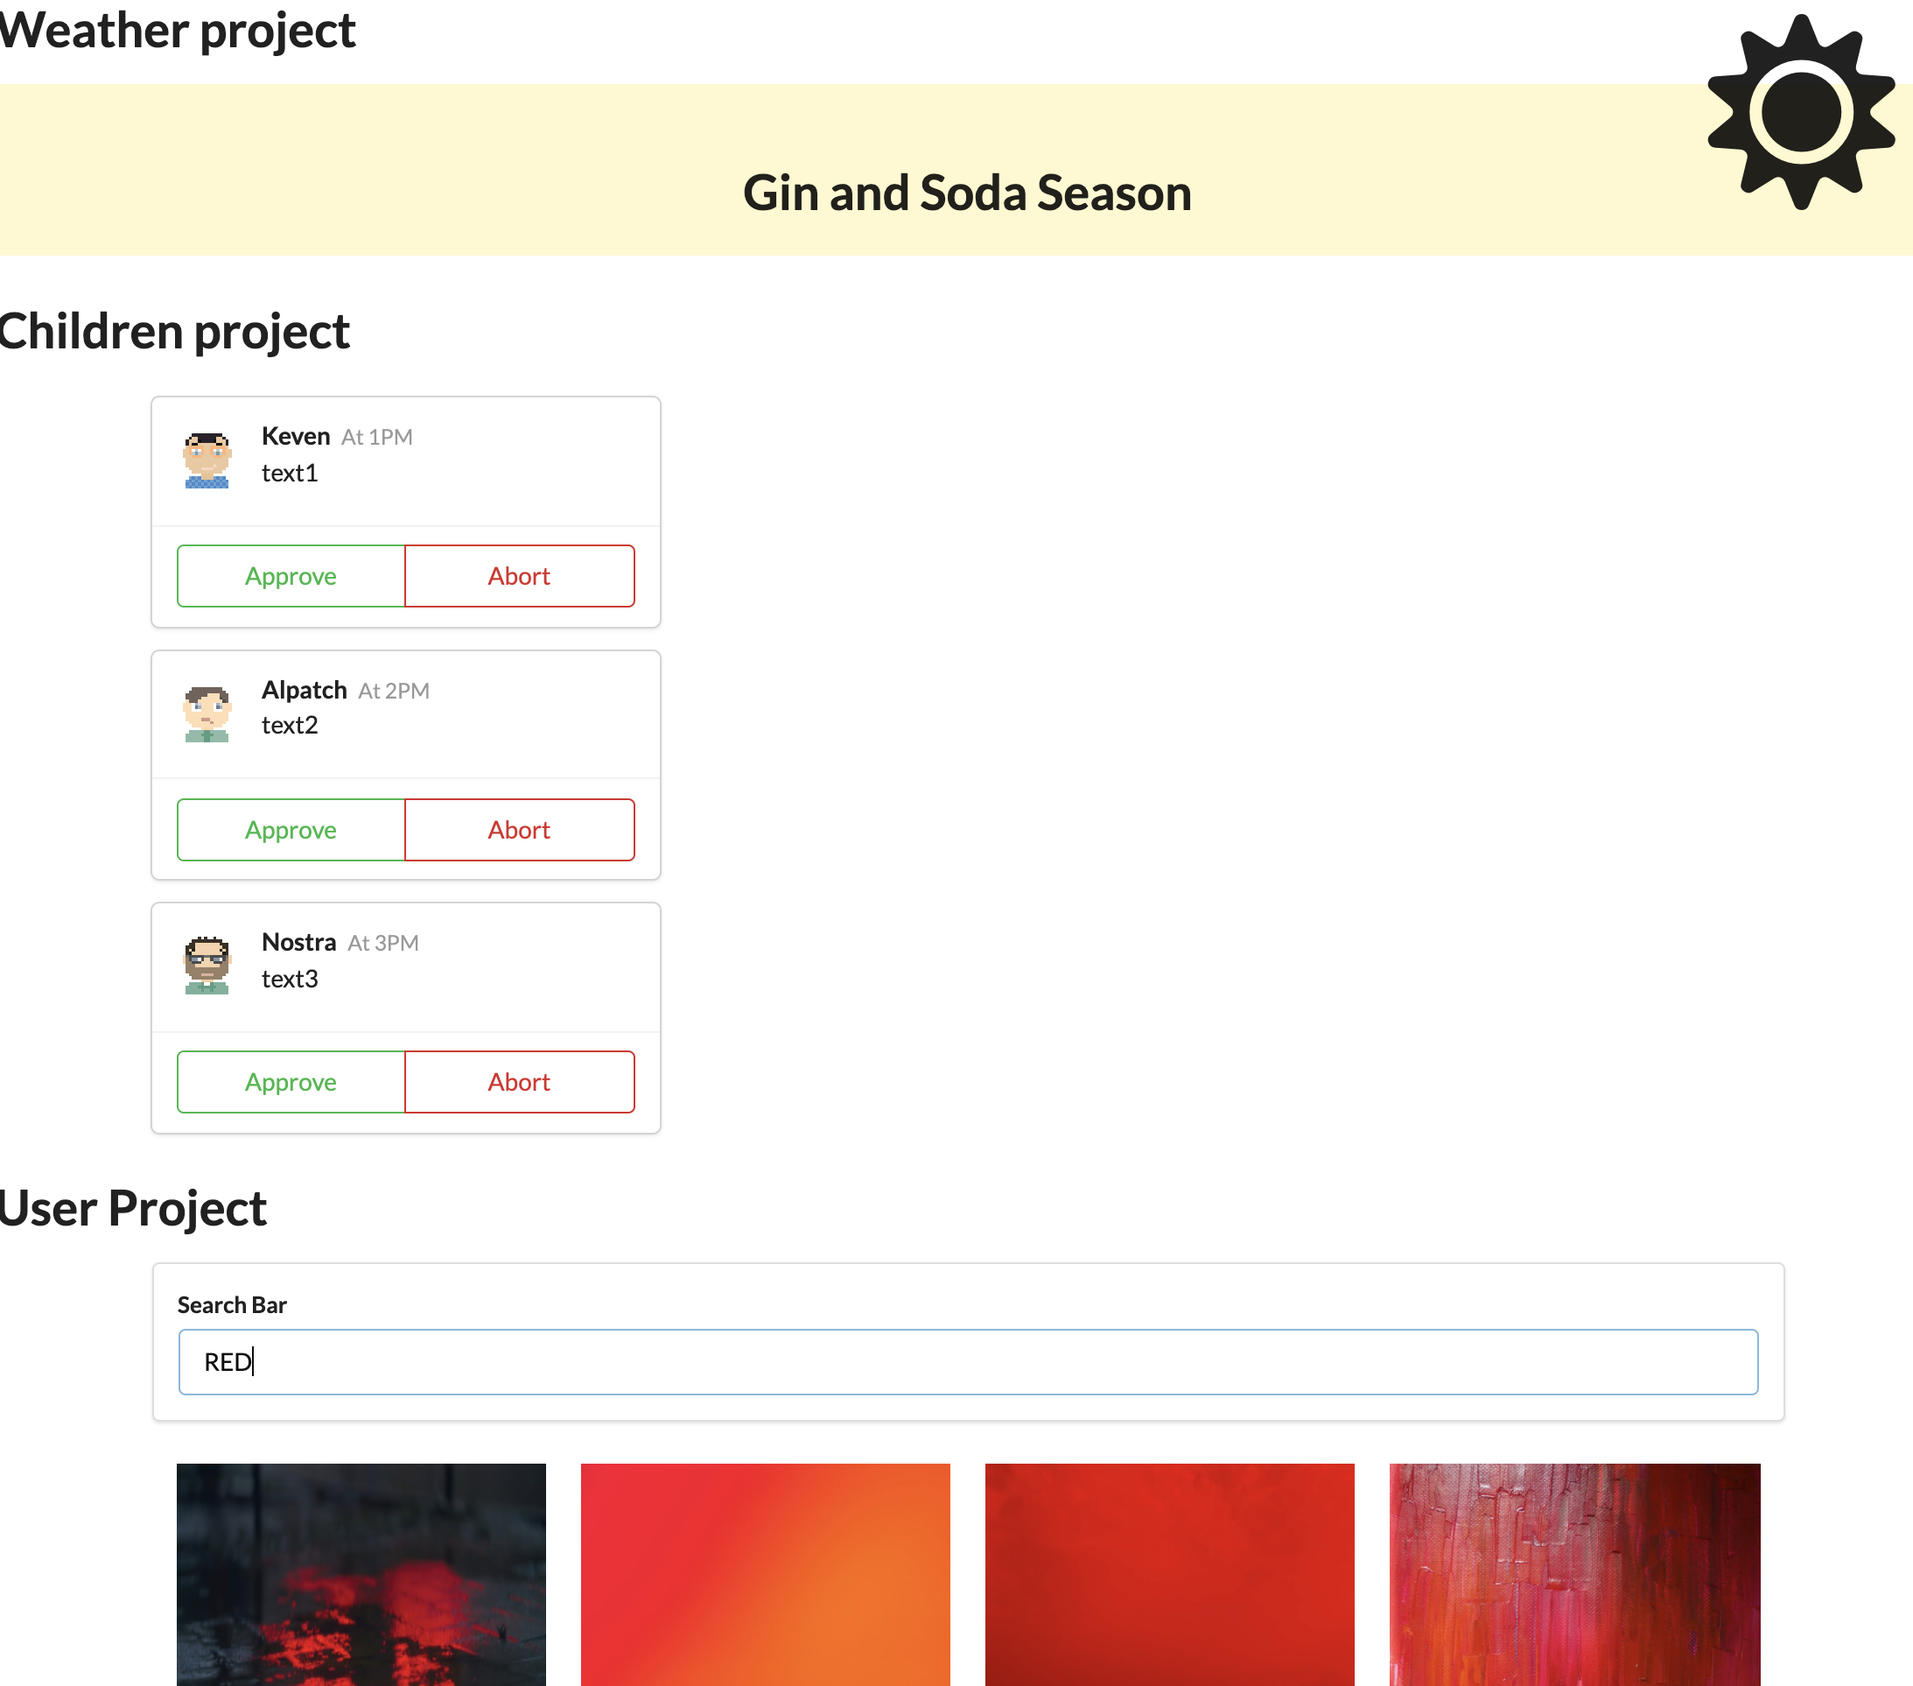
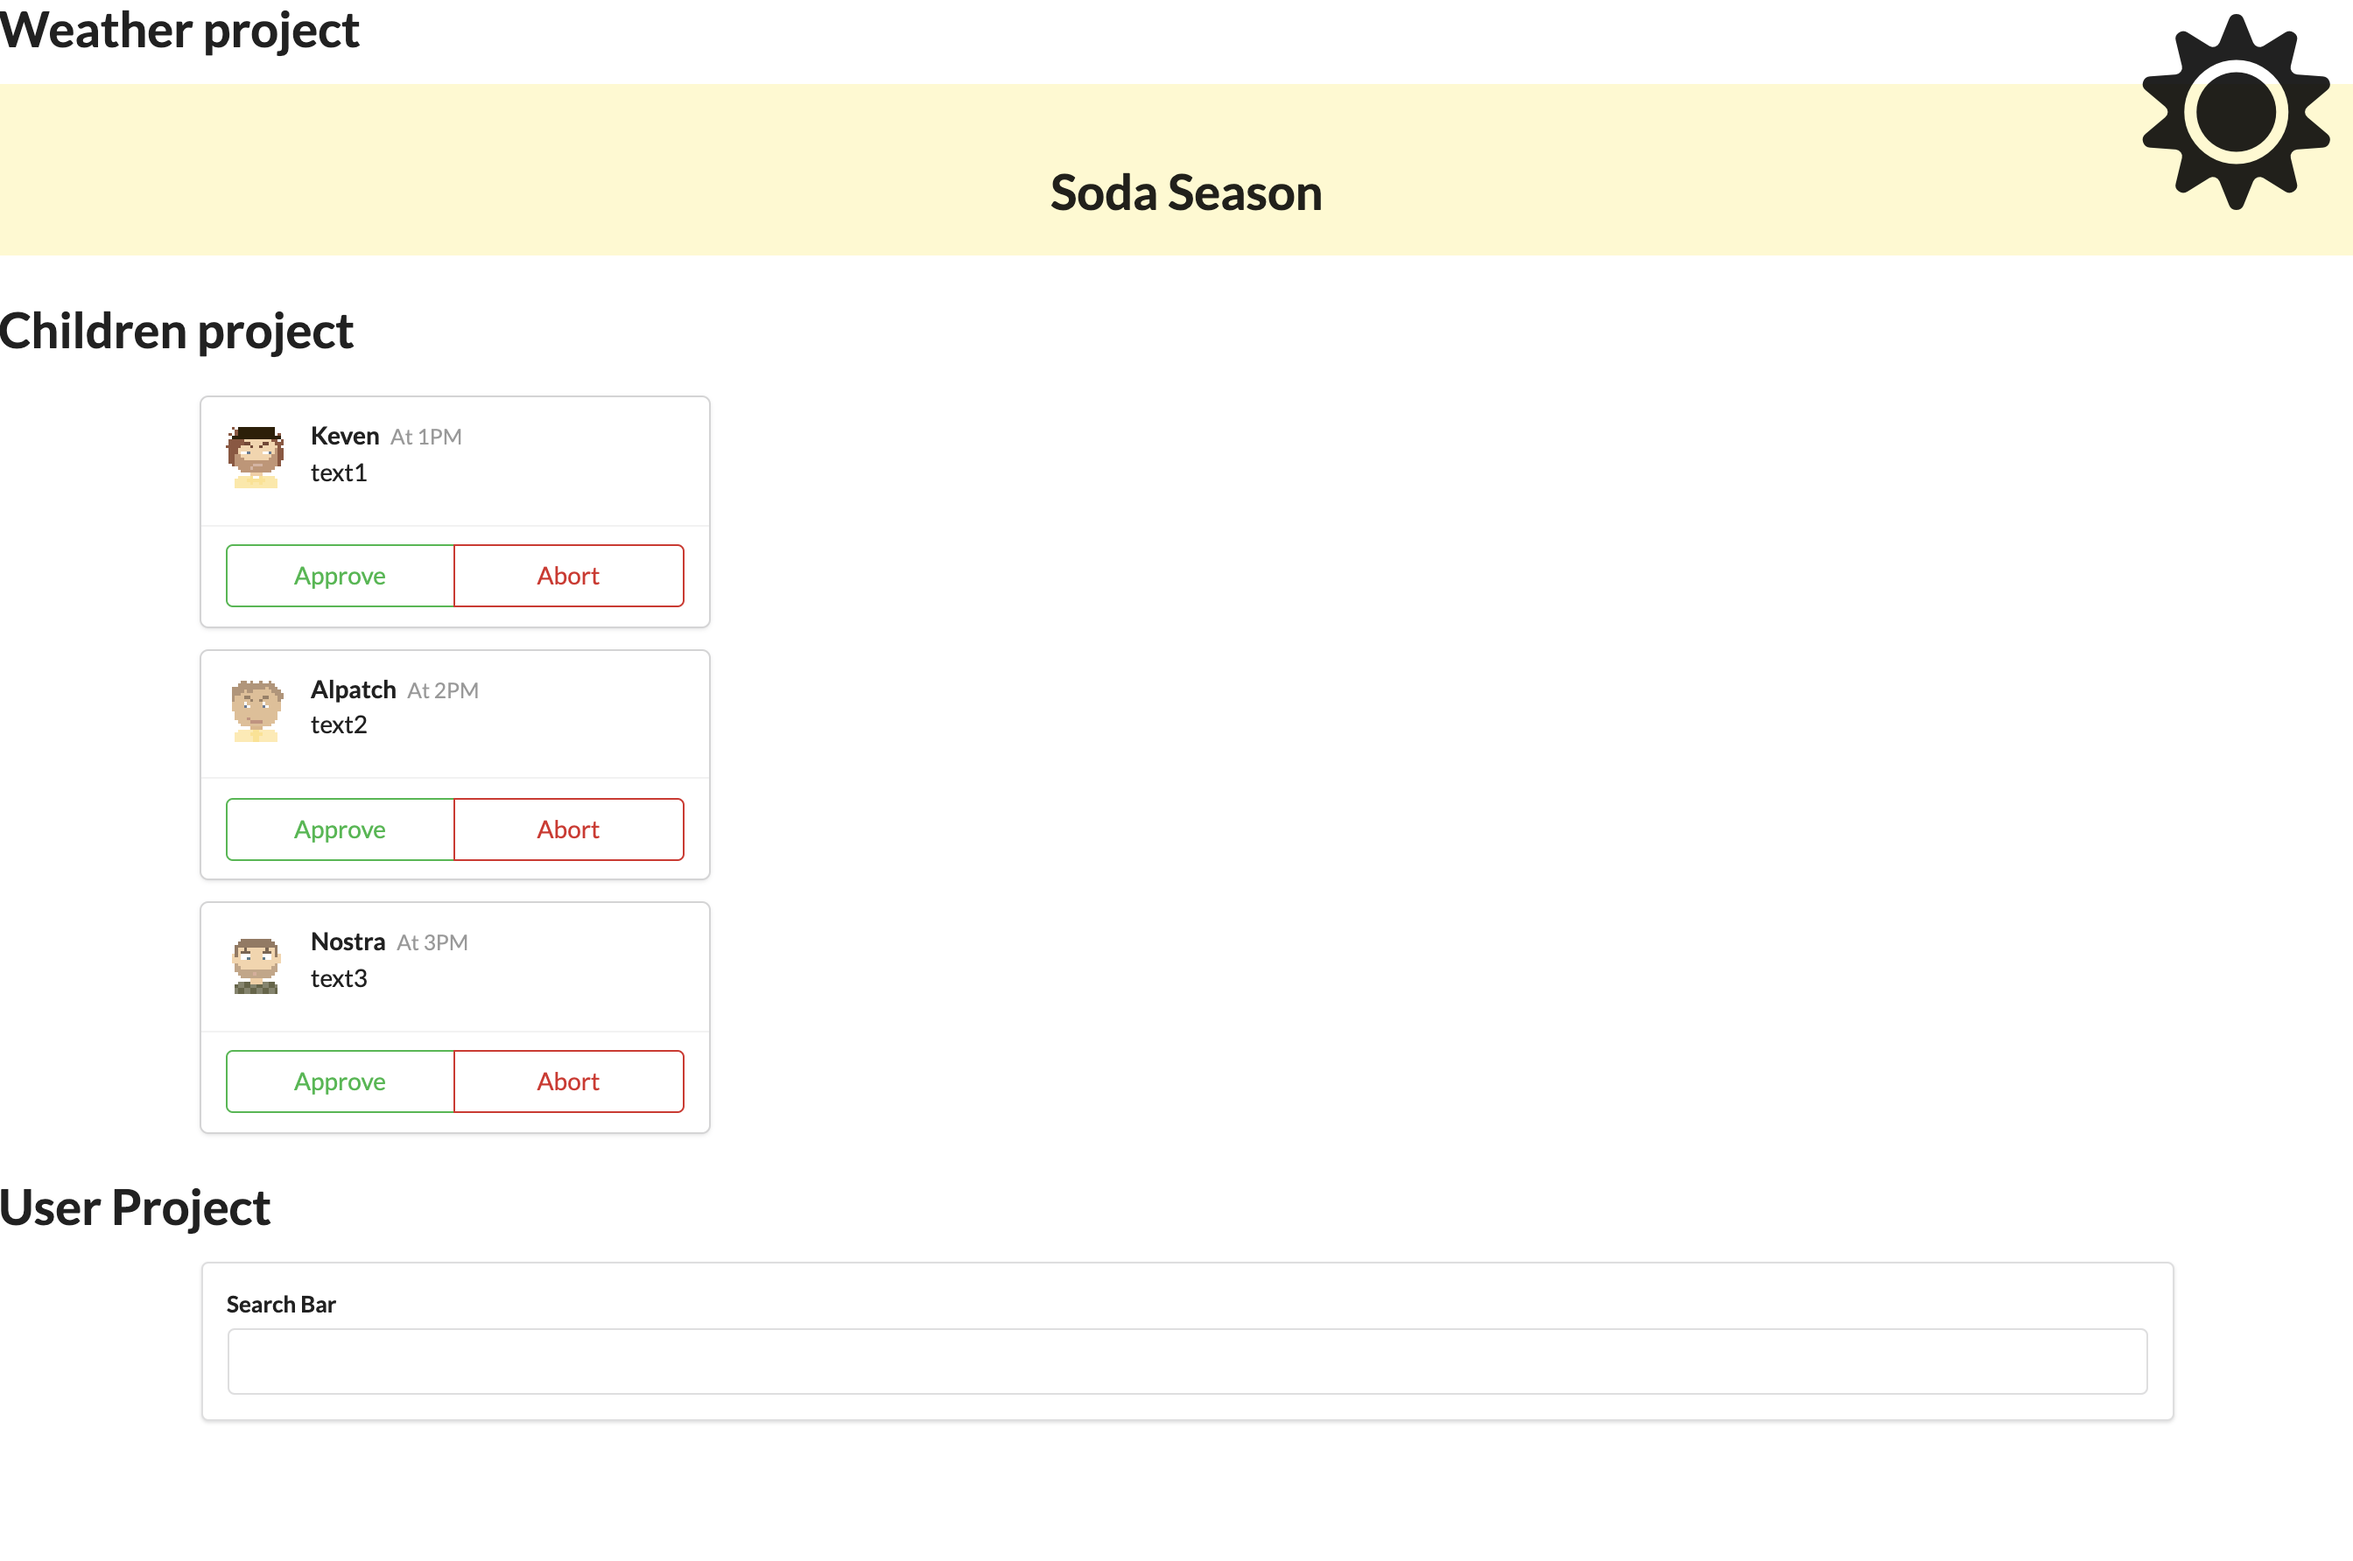
readme

Changed region(s): [[0.0, 0.3391, 0.9332, 1.0], [0.0, 0.0, 1.0, 0.3391], [0.9021, 0.8016, 0.9332, 0.8324]]

diff --git a/hooks/src/components/Convert.js b/hooks/src/components/Convert.js
@@ -1,8 +1,22 @@
 import React, { useEffect, useState } from "react";
 import axios from "axios";
+import env from "react-dotenv";
 
 const Convert = ({ language, text }) => {
   const [translated, setTranslated] = useState("");
+  const [limitText, setlimitText] = useState(text);
+
+  useEffect(() => {
+    // Avoi dcalling API each new letter
+    const timerId = setTimeout(() => {
+      setlimitText(text);
+    }, 500);
+
+    // if text change cancel timeout
+    return () => {
+      clearTimeout(timerId);
+    };
+  }, [text]);
 
   useEffect(() => {
     const activeTranslation = async () => {
@@ -11,18 +25,18 @@ const Convert = ({ language, text }) => {
         {},
         {
           params: {
-            q: text,
+            q: limitText,
             target: language.value,
-            key: "AIzaSyCHUCmpR7cT_yDFHC98CZJy2LTms-IwDlM",
+            key: env.API_URL,
           },
         }
       );
       setTranslated(data.data.translations[0].translatedText);
     };
     activeTranslation();
-    console.log(translated);
+    console.log(window.env.API_KEY);
     //console.log("new text or LANG");
-  }, [language, text]);
+  }, [language, limitText]);
   return <h1 class="ui header">{translated}</h1>;
 };
 

diff --git a/hooks/src/App.js b/hooks/src/App.js
@@ -32,13 +32,13 @@ const App = () => {
     <div>
       <Translate />
       <Search />
-      {/*       <Dropdown
+      <Dropdown
         selected={selected}
         onSelectedChange={setSelected}
         options={options}
-      /> */}
+      />
 
-      {/*  <Accordion items={itemsList} /> */}
+      <Accordion items={itemsList} />
     </div>
   );
 };

diff --git a/hooks/public/index.html b/hooks/public/index.html
@@ -30,6 +30,7 @@
       href="https://cdnjs.cloudflare.com/ajax/libs/semantic-ui/2.4.1/semantic.min.css"
     />
     <title>React App</title>
+    <script id="react-dotenv" src="./env.js"></script>
   </head>
   <body>
     <noscript>You need to enable JavaScript to run this app.</noscript>

diff --git a/jsx/src/components/jsx/Season.js b/jsx/src/components/jsx/Season.js
@@ -3,7 +3,7 @@ import "./Season.css";
 
 const seasonStorage = {
   summer: {
-    text: "Gin and Soda Season",
+    text: "Soda Season",
     icon: "sun",
   },
   winter: {

diff --git a/README.md b/README.md
@@ -113,3 +113,5 @@ Will run at initial, every rerender
   ```
 
 #### useRef
+
+- ref={ref}
